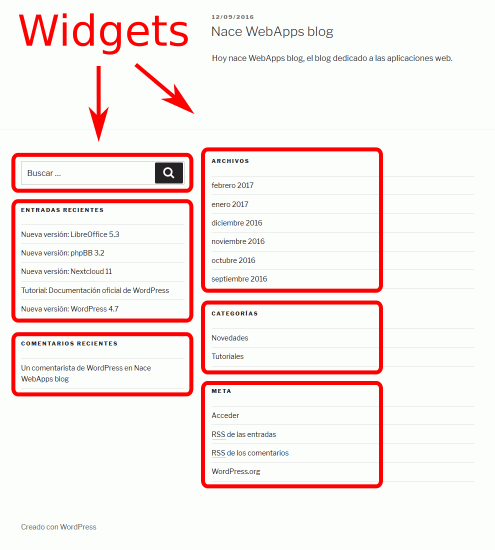
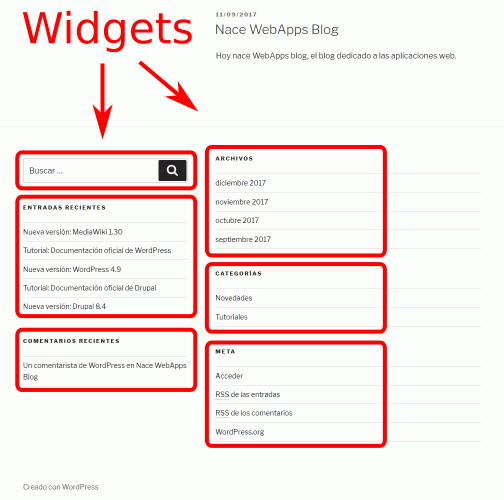
Empiezo a actualizar ejercicios y soluciones WordPress 3

diff --git a/lecciones/wordpress-3.html b/lecciones/wordpress-3.html
@@ -51,11 +51,20 @@
 
   <p>Los plugins permiten ampliar la funcionalidad de WordPress como blog o incluso transformar WordPress en otro tipo de página web (CMS, tienda, etc.).</p>
 
-  <p>El directorio de plugins de WordPress se puede visitar en <a href="https://es.wordpress.org/plugins/">https://es.wordpress.org/plugins/</a>. En febrero de 2017 se puede visitar también la página <a href="https://es.wordpress.org/plugins/">https://es.wordpress.org/plugins/</a>, una nueva versión del directorio de plugins. </p>
+  <p>El directorio de plugins de WordPress se puede visitar en <a href="https://es.wordpress.org/plugins/">https://es.wordpress.org/plugins/</a> o desde el propio WordPress en Escritorio &gt; Plugins &gt; Añadir nuevo.</p>
+
+  <p>La información que se ofrece en la web o en la aplicación es prácticamente la misma, como puede verse en la captura siguiente, pero en la aplicación hace referencia a la compatibilidad con la versión instalada e incluye un botón para instalar el plugin directamente.</p>
+
+  <p class="captura">
+    <img src="../img/wordpress/3-0-1-info-plugins.png" alt="WordPress. Información sobre los plugins" width="500" height="290" />
+    <img src="../img/wordpress/3-0-2-info-plugins.png" alt="WordPress. Información sobre los plugins" width="500" height="290" />
+  </p>
 
   <p>Los plugins se instalan y desinstalan en WordPress desde el menú Plugins.</p>
 
-  <p>Los plugins propuestos en esta página estaban disponibles para WordPress 4.7 en el momento de redactar estos ejercicios (enero de 2017). Es posible que en futuro esos plugins no estén disponibles para versiones posteriores de WordPress, o incluso hayan dejado de estar disponibles para cualquier versión. En ese caso, se pueden utilizar otros plugins de los disponibles en ese momento.</p>
+  <p>Los plugins propuestos en esta página estaban disponibles para WordPress 4.9 en el momento de redactar estos ejercicios (enero de 2018). Es posible que en futuro esos plugins no estén disponibles para versiones posteriores de WordPress, o incluso hayan dejado de estar disponibles para cualquier versión. En ese caso, se pueden utilizar otros plugins de los disponibles en ese momento.</p>
+
+  <p class="incompleto"><img src="../varios/iconos/icono-en-construccion.svg" alt="En construcción" title="En construcción" width="55" height="48" />Estas ejercicios están pendientes de actualizar para WordPress 4.9.</p>
 
   <section id="ejercicio-1">
     <h2>WordPress (3) 1 - Widgets</h2>
@@ -65,18 +74,18 @@
     <p>De forma predeterminada, están activados los widgets Buscar, Entradas recientes, Comentarios recientes, Archivos, Categoría y Meta.</p>
 
     <p class="captura">
-      <img src="../img/wordpress/3-1-e-1-widgets.png" alt="WordPress. Widgets" width="495" height="600" />
+      <img src="../img/wordpress/3-1-e-1-widgets.png" alt="WordPress. Widgets" width="504" height="600" />
     </p>
 
     <ol>
       <li>Distribuya los widgets predeterminados de otra manera, por ejemplo en la parte inferior.
         <p class="captura">
-          <img src="../img/wordpress/3-1-e-2-widgets.png" alt="WordPress. Widgets" width="495" height="550" />
+          <img src="../img/wordpress/3-1-e-2-widgets.png" alt="WordPress. Widgets" width="504" height="500" />
         </p>
       </li>
-      <li>Devuelva los widgets a la barra lateral, elimine el widget de Comentarios recientes y cambie el título de los widgets de Entradas recientes y Archivos.
+      <li>Devuelva los widgets a la barra lateral, elimine el widget de Comentarios recientes y cambie el título y el formato de presentación de los widgets de Entradas recientes y Archivos.
         <p class="captura">
-          <img src="../img/wordpress/3-1-e-3-widgets.png" alt="WordPress. Widgets" width="991" height="460" />
+          <img src="../img/wordpress/3-1-e-3-widgets.png" alt="WordPress. Widgets" width="1008" height="480" />
         </p>
       </li>
       <li>Active los widgets Calendario y Nube de etiquetas y compruebe su funcionamiento.
@@ -455,7 +464,7 @@
   </section>
 
   <footer>
-    <p class="ultmod">Última modificación de esta página: 11 de febrero de 2017</p>
+    <p class="ultmod">Última modificación de esta página: 18 de enero de 2018</p>
 
     <p class="licencia"><a rel="license" href="https://creativecommons.org/licenses/by-sa/4.0/deed.es_ES"><img src="../varios/iconos/icono-cc-by-sa.svg" alt="Licencia Creative Commons" title="Licencia Creative Commons BY-SA" width="120" height="42" /></a><br />
       Esta página forma parte del curso <strong><a href="http://www.mclibre.org/consultar/webapps/">Aplicaciones web</a></strong> por <a href="http://www.mclibre.org/" rel="author">Bartolomé Sintes Marco</a><br />

diff --git a/lecciones/wordpress.html b/lecciones/wordpress.html
@@ -66,13 +66,15 @@
 
     <p>Los blogs (palabra inventada en 1999 como abreviatura de weblog, palabra inventada a su vez en 1997) se refiere a un tipo particular de sitio web en el que el contenido se organiza principalmente de forma cronológica, a imitación de los diarios personales o cuadernos de bitácora.</p>
 
-    <p><a href="https://wordpress.org/">WordPress</a> apareció en 2003 como herramienta de creación de blogs y rápidamente se convirtió en el sistema más utilizado. Con el paso del tiempo ha ido adquiriendo capacidades que permiten calificarlo como sistema de gestión de contenidos de propósito general. Alrededor de él se ha creado una gran industria de plug-ins, temas y plantillas. La cantidad de herramientas disponibles y su facilidad de uso lo ha convertido en la base de una gran parte de la web actual. Algunas estadísticas publicadas, como las <a href="https://w3techs.com/technologies/overview/content_management/all/">W3Techs</a>, indican que actualmente (enero de 2018) casi el 30% de los sitios web entre los 10 millones de sitios con más tráfico están creados con WordPress.</p>
+    <p><a href="https://wordpress.org/">WordPress</a> apareció en 2003 como herramienta de creación de blogs y rápidamente se convirtió en el sistema más utilizado. Su creador, Matt Mullenweg, fundó en 2005 la empresa <a href="https://automattic.com/">Automattic</a>, que es la que desarrolla y publica WordPress.</p>
+
+    <p>Con el paso del tiempo WordPress ha ido adquiriendo capacidades que permiten calificarlo como sistema de gestión de contenidos de propósito general. Alrededor de él se ha creado una gran industria de plug-ins, temas y plantillas. La cantidad de herramientas disponibles y su facilidad de uso lo ha convertido en la base de una gran parte de la web actual. Algunas estadísticas publicadas, como las <a href="https://w3techs.com/technologies/overview/content_management/all/">W3Techs</a>, indican que actualmente (enero de 2018) casi el 30% de los sitios web entre los 10 millones de sitios con más tráfico están creados con WordPress.</p>
+
+    <p>WordPress es software libre y se distribuye bajo la licencia GPL 2.0. Está programado en PHP y utiliza MySQL como base de datos, aunque su interfaz permite gestionar la aplicación sin necesidad de conocimientos técnicos sobre PHP o MySQL.</p>
 
     <hr class="corta" />
 
-    <p>WordPress es software libre que se distribuye bajo la licencia GPL 2.0. Está programado en PHP y utiliza MySQL como base de datos, aunque su interfaz permite gestionar la aplicación sin necesidad de conocimientos técnicos sobre PHP o MySQL.</p>
-
-    <p>WordPress ha tenido siempre un ritmo de desarrollo muy rápido, pero manteniendo siempre gran compatibilidad entre versiones. Las versiones de WordPress se identifican por tres números (X.Y.Z). Las versiones principales se identifican por los dos primeros números (X.Y), que siguen un orden correlativo y cuando el segundo llega a 9, el primero aumenta una unidad y el segundo empieza de nuevo desde 0. El tercer número corresponde a versiones menores con actualizaciones de seguridad.</p>
+    <p>WordPress ha tenido siempre un ritmo de desarrollo muy rápido, pero manteniendo siempre gran compatibilidad entre versiones. Las versiones de WordPress se identifican por tres números (X.Y.Z). Las versiones principales se identifican por los dos primeros números (X.Y), que siguen un orden correlativo y cuando el segundo llega a 9, el primero aumenta una unidad y el segundo empieza de nuevo desde 0. El tercer número corresponde a versiones menores que incluyen actualizaciones de seguridad y correcciones de fallos.</p>
 
     <p class="mcl-centrado">
       <svg version="1.1" xmlns="http://www.w3.org/2000/svg" width="1090" viewBox="-50 -60 1090 100">

diff --git a/lecciones/wordpress-3-soluciones.html b/lecciones/wordpress-3-soluciones.html
@@ -48,7 +48,7 @@
     </div>
   </nav>
 
-  <p class="incompleto"><img src="../varios/iconos/icono-en-construccion.svg" alt="En construcción" title="En construcción" width="55" height="48" />Esta soluciones están pendientes de escribir.</p>
+  <p class="incompleto"><img src="../varios/iconos/icono-en-construccion.svg" alt="En construcción" title="En construcción" width="55" height="48" />Estas soluciones están pendientes de actualizar para WordPress 4.9.</p>
 
   <p>En esta lección se proponen soluciones detalladas de los <a href="wordpress-3.html">ejercicios (3) de WordPress</a>. Se recomienda intentar realizarlos primero sin recurrir a estas soluciones.</p>
 
@@ -173,7 +173,7 @@ wp_meta();
   </section>
 
   <footer>
-    <p class="ultmod">Última modificación de esta página: 7 de febrero de 2017</p>
+    <p class="ultmod">Última modificación de esta página: 18 de enero de 2018</p>
 
     <p class="licencia"><a rel="license" href="https://creativecommons.org/licenses/by-sa/4.0/deed.es_ES"><img src="../varios/iconos/icono-cc-by-sa.svg" alt="Licencia Creative Commons" title="Licencia Creative Commons BY-SA" width="120" height="42" /></a><br />
       Esta página forma parte del curso <strong><a href="http://www.mclibre.org/consultar/webapps/">Aplicaciones web</a></strong> por <a href="http://www.mclibre.org/" rel="author">Bartolomé Sintes Marco</a><br />
